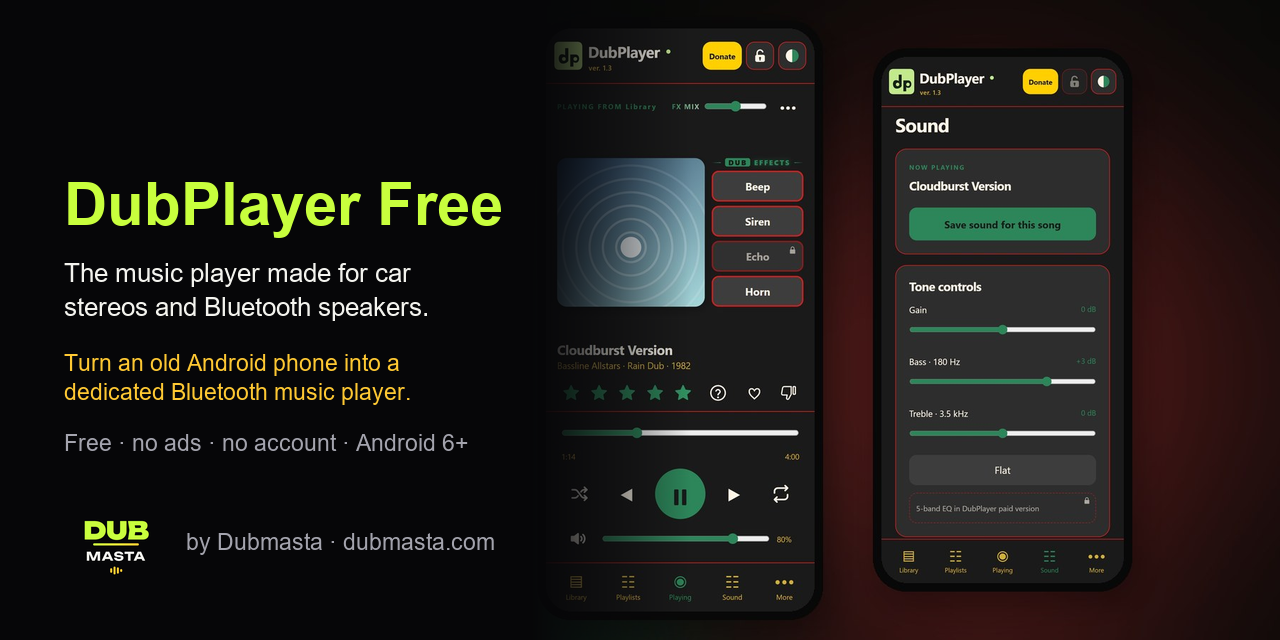
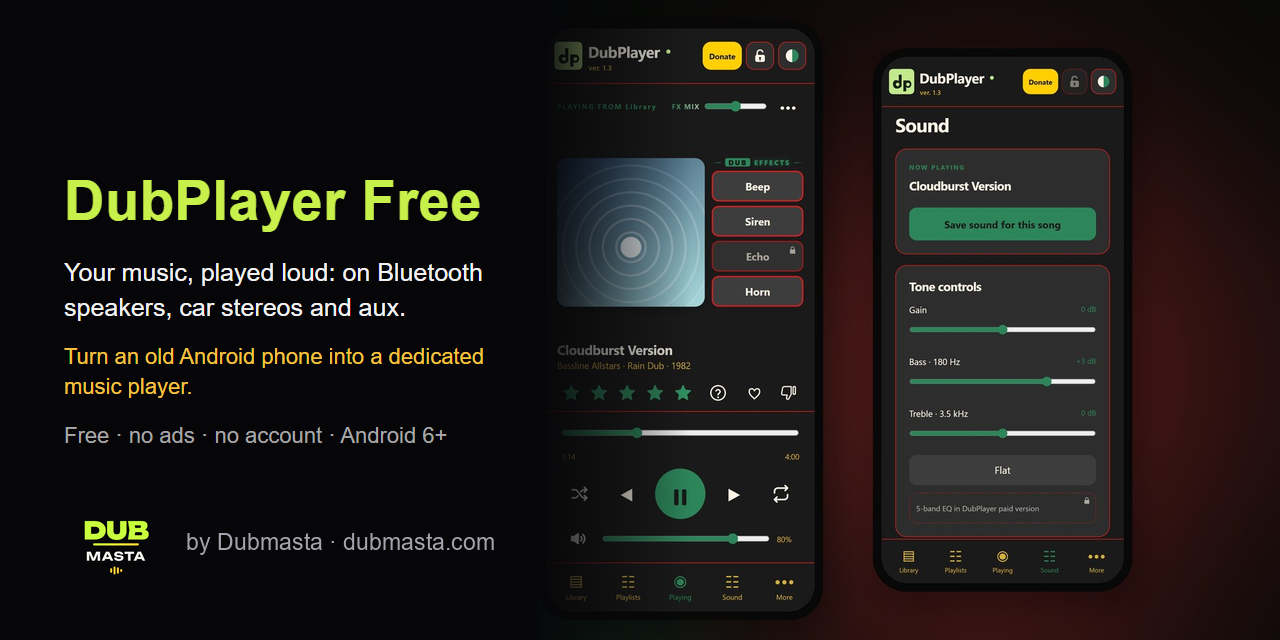
DubPlayer: your music, played loud on Bluetooth speakers, car stereos and aux

diff --git a/README.md b/README.md
@@ -16,12 +16,12 @@
 ### 🎵 DubPlayer Free · Android music player
 
 <a href="https://github.com/Dubmasta/DubPlayer">
-  <img src="assets/dubplayer-card.png" width="640" alt="DubPlayer Free: the music player made for car stereos and Bluetooth speakers">
+  <img src="assets/dubplayer-card.png" width="640" alt="DubPlayer Free: your music, played loud on Bluetooth speakers, car stereos and aux">
 </a>
 
-The music player made for **car stereos and Bluetooth speakers**. Random play that keeps your music fresh, dub sound effects, Subwoofer Bass and per-song sound. Free, no ads, no account.
+Your music, played loud: on **Bluetooth speakers, car stereos and aux**. Random play that keeps your music fresh, dub sound effects, Subwoofer Bass and per-song sound. Free, no ads, no account.
 
-**Turn an old Android phone into a dedicated Bluetooth music player** for your car or speaker.
+**Turn an old Android phone into a dedicated music player** for your speakers, your stereo or your car.
 
 [**⬇ Download DubPlayer Free**](https://github.com/Dubmasta/DubPlayer/releases/latest) · [Project page](https://github.com/Dubmasta/DubPlayer) · [dubmasta.com/dubplayer](https://www.dubmasta.com/dubplayer/)
 
